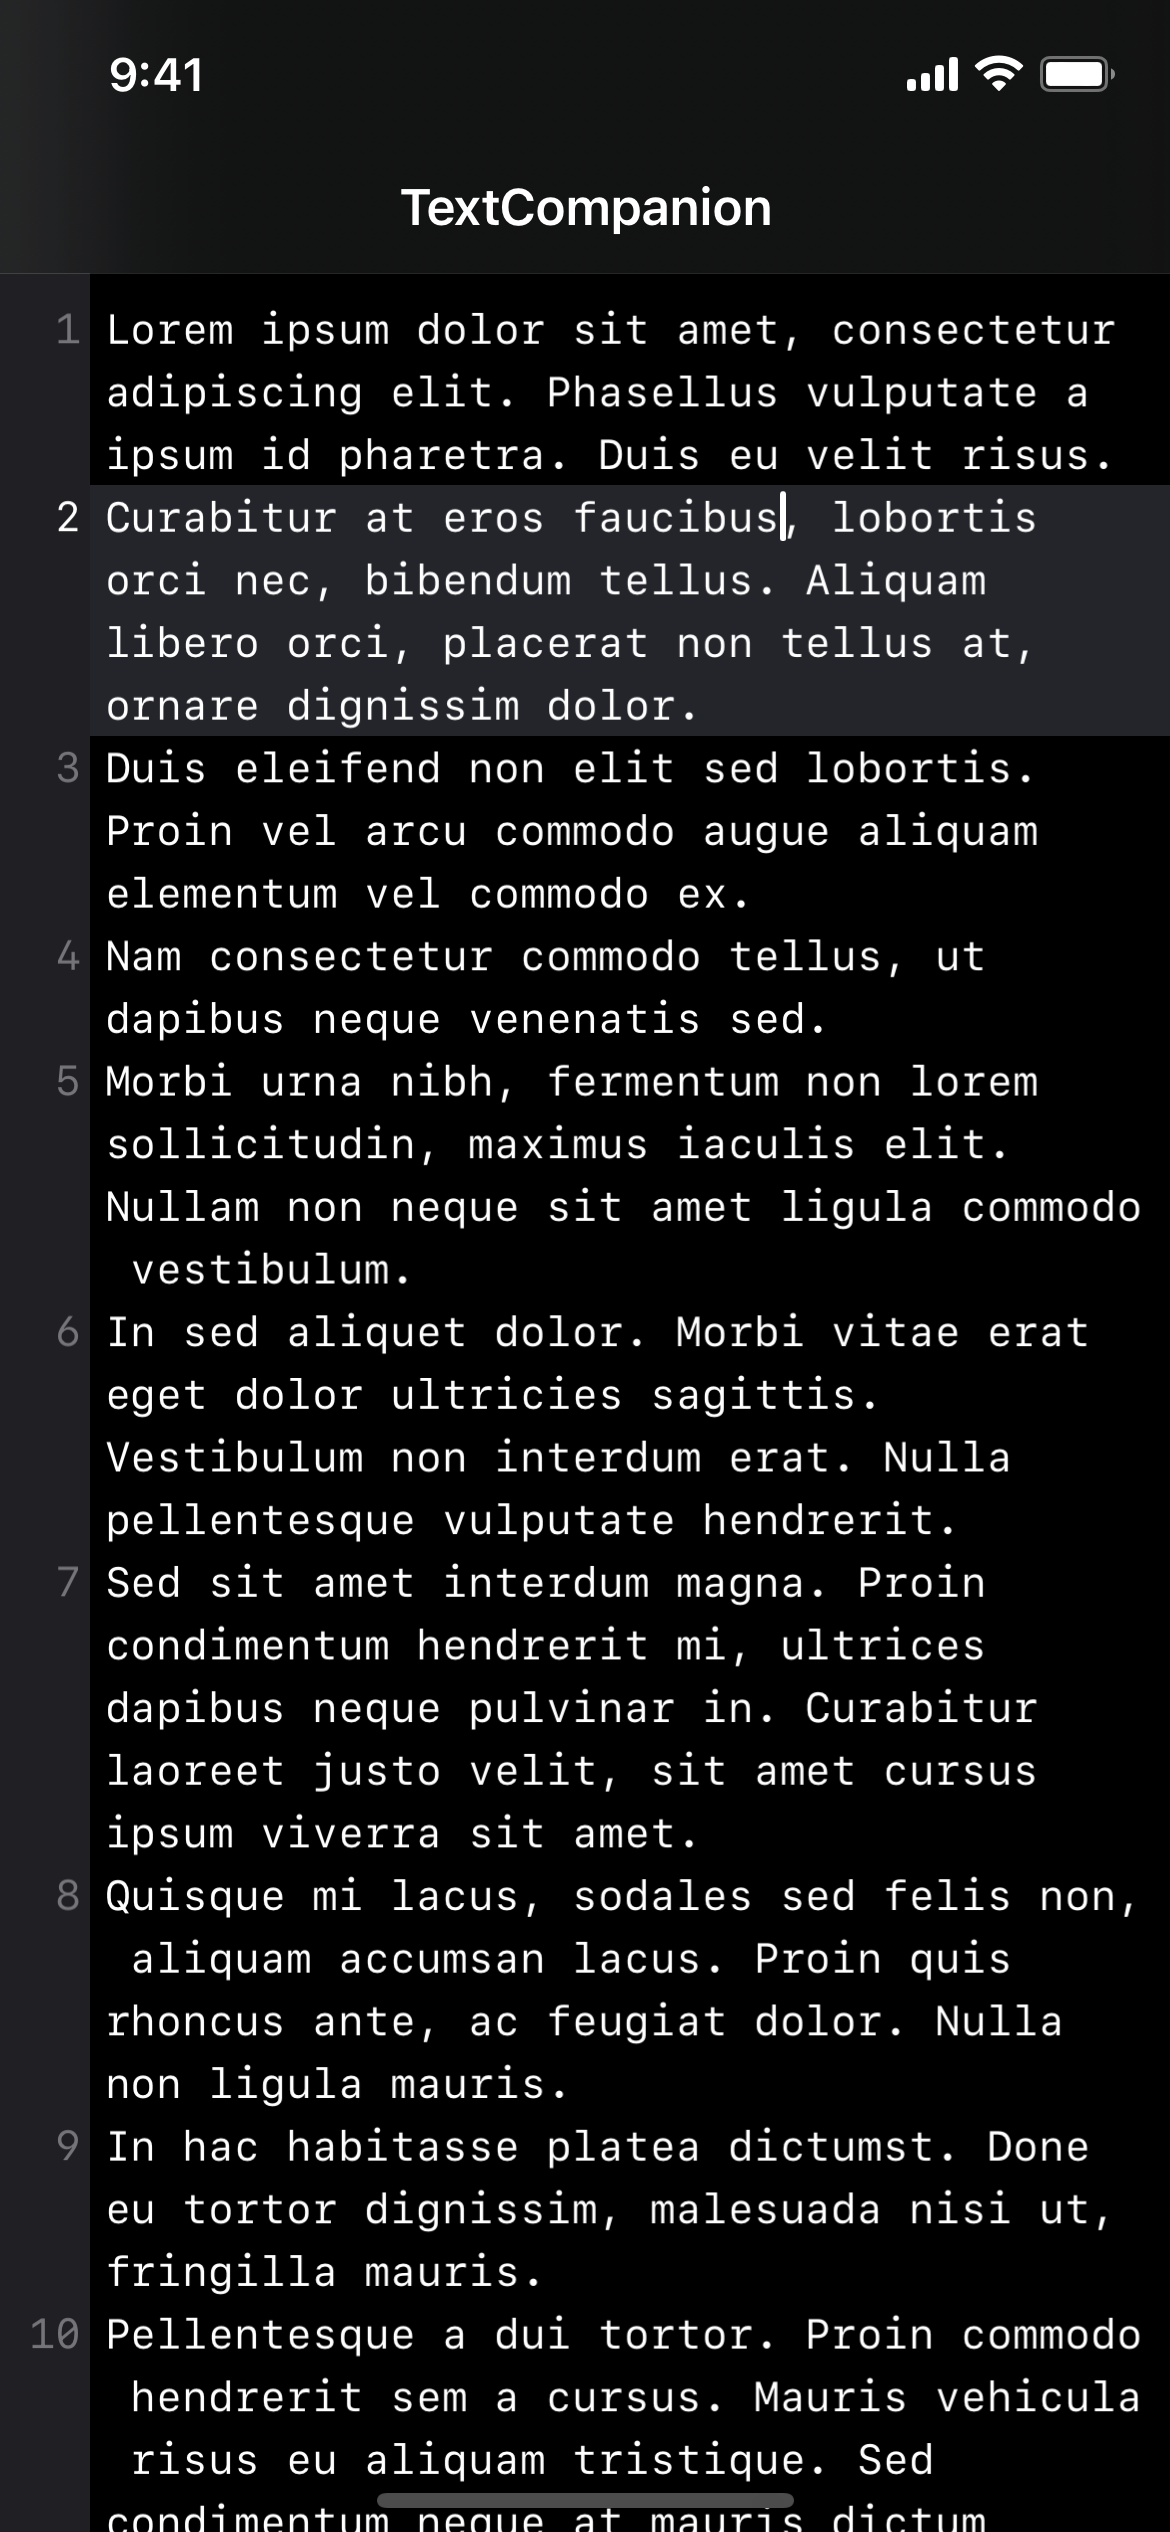
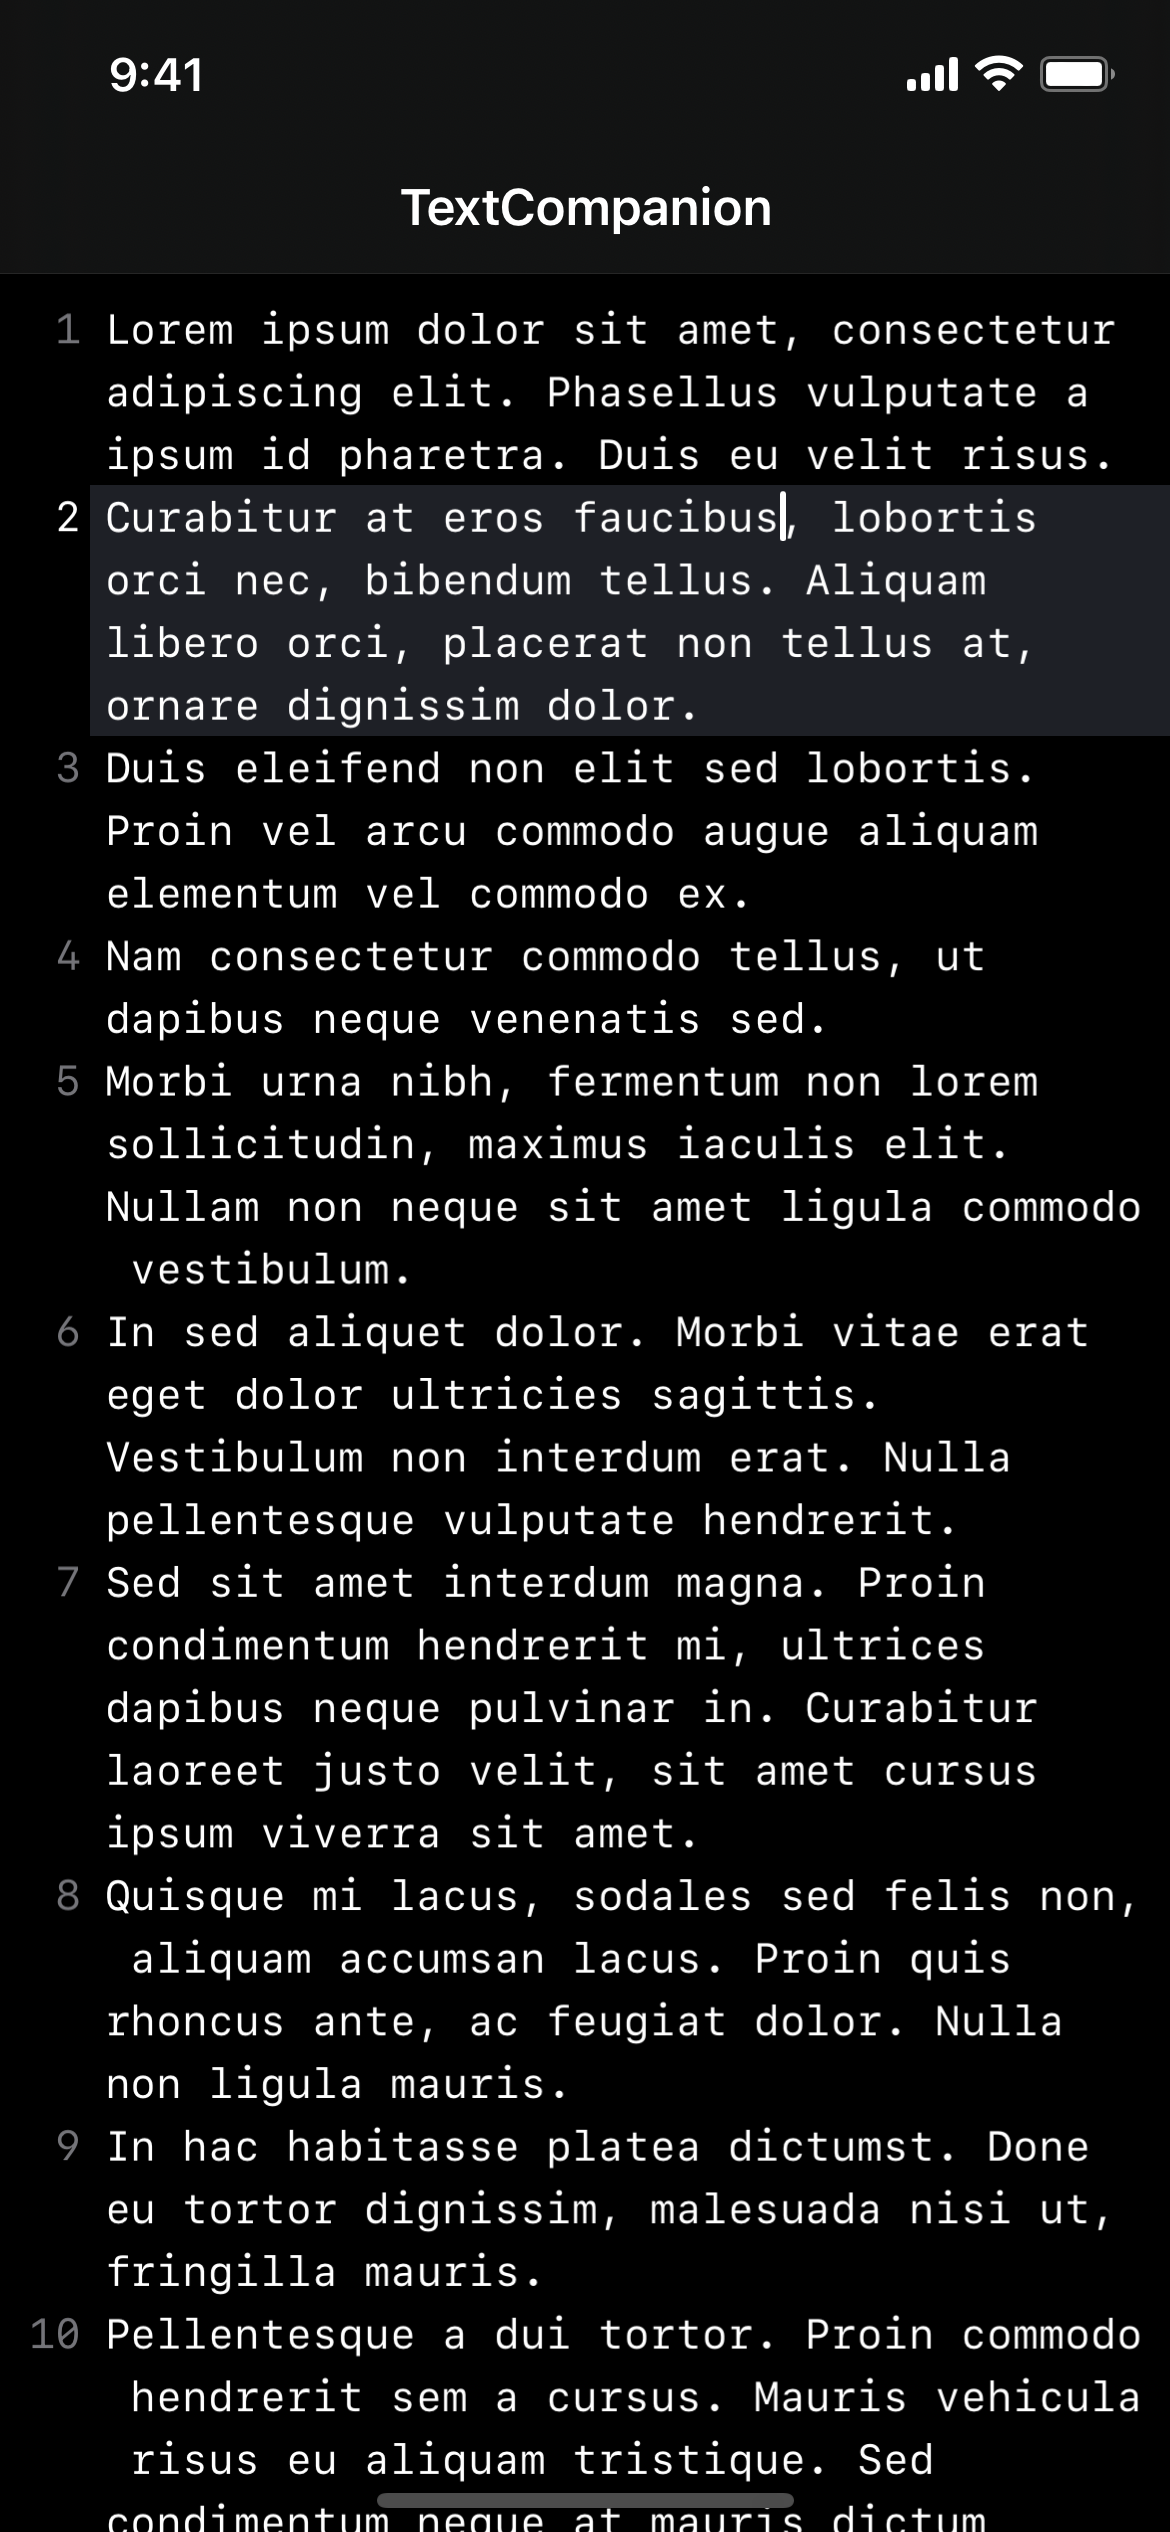
Updates Setting Up a TextView

Changed region(s): [[0.0, 0.0936, 0.0923, 1.0]]

diff --git a/Sources/Runestone/Documentation.docc/Tutorials/01-setting-up-a-textview-02-03.swift b/Sources/Runestone/Documentation.docc/Tutorials/01-setting-up-a-textview-02-03.swift
@@ -5,11 +5,11 @@ class ViewController: UIViewController {
     override func viewDidLoad() {
         super.viewDidLoad()
         title = "TextCompanion"
+        navigationController?.navigationBar.scrollEdgeAppearance = UINavigationBarAppearance()
         let textView = TextView()
         textView.translatesAutoresizingMaskIntoConstraints = false
         textView.backgroundColor = .systemBackground
         textView.textContainerInset = UIEdgeInsets(top: 8, left: 5, bottom: 8, right: 5)
-        textView.showLineNumbers = true
         view.addSubview(textView)
         NSLayoutConstraint.activate([
             textView.leadingAnchor.constraint(equalTo: view.leadingAnchor),

diff --git a/Sources/Runestone/Documentation.docc/Tutorials/01-setting-up-a-textview-02-02.swift b/Sources/Runestone/Documentation.docc/Tutorials/01-setting-up-a-textview-02-02.swift
@@ -5,10 +5,10 @@ class ViewController: UIViewController {
     override func viewDidLoad() {
         super.viewDidLoad()
         title = "TextCompanion"
+        navigationController?.navigationBar.scrollEdgeAppearance = UINavigationBarAppearance()
         let textView = TextView()
         textView.translatesAutoresizingMaskIntoConstraints = false
         textView.backgroundColor = .systemBackground
-        textView.textContainerInset = UIEdgeInsets(top: 8, left: 5, bottom: 8, right: 5)
         view.addSubview(textView)
         NSLayoutConstraint.activate([
             textView.leadingAnchor.constraint(equalTo: view.leadingAnchor),

diff --git a/Sources/Runestone/Documentation.docc/Tutorials/01-syntax-highlighting-the-text-01-03.swift b/Sources/Runestone/Documentation.docc/Tutorials/01-syntax-highlighting-the-text-01-03.swift
@@ -1,5 +1,5 @@
-import tree
 import Runestone
+import TreeSitterJavaScriptRunestone
 import UIKit
 
 class ViewController: UIViewController {
